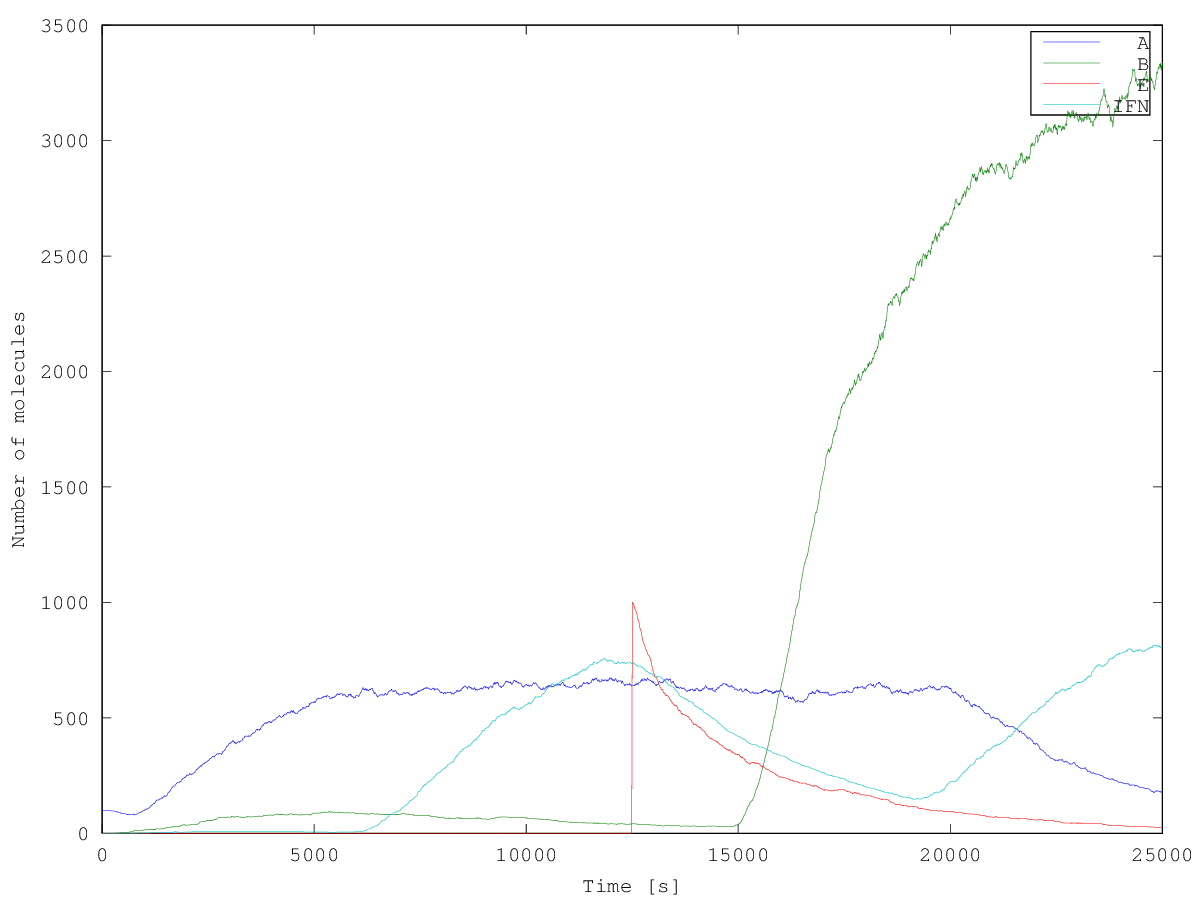
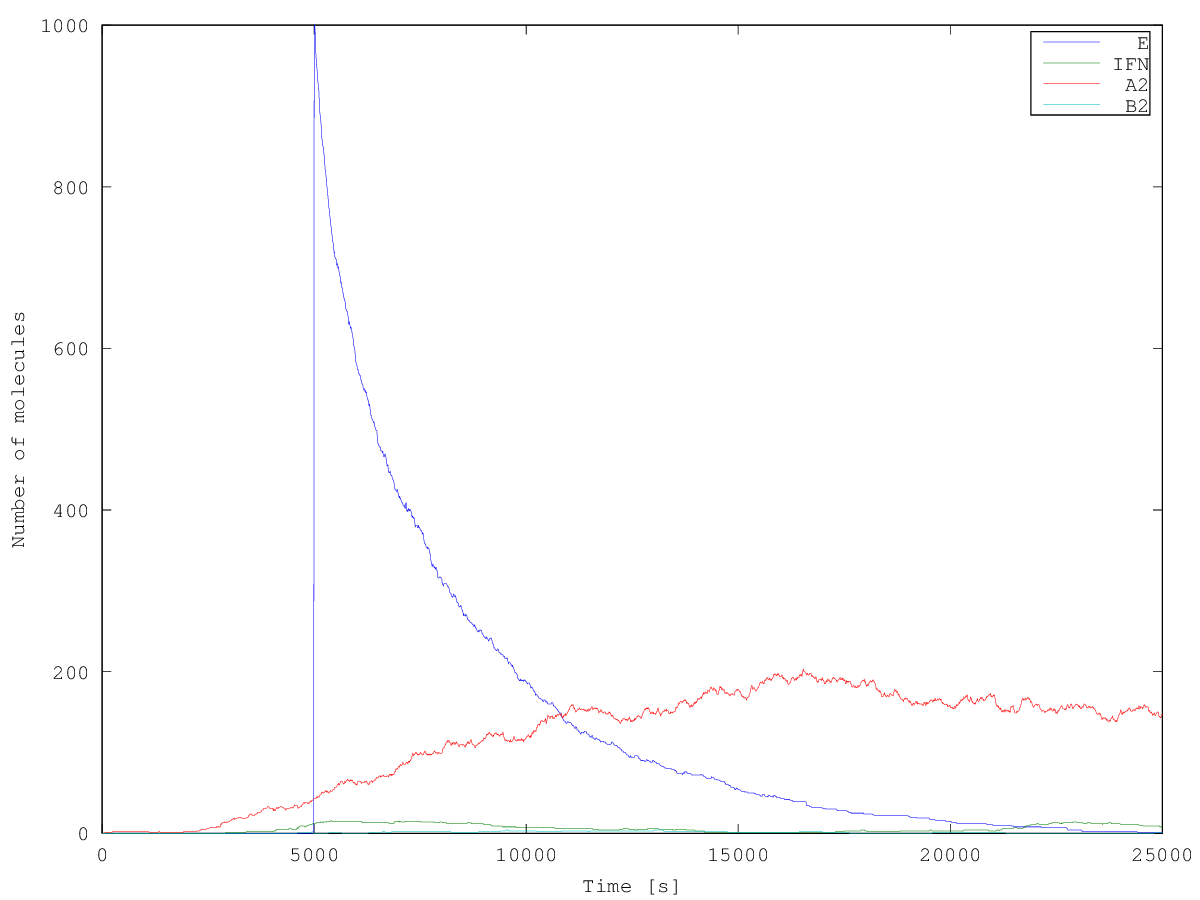
Popravki za skldanost z ostalimi slikami

diff --git a/2del/ebola_ssa.m b/2del/ebola_ssa.m
@@ -19,10 +19,10 @@ A_init = 100;
 
 t_end = 25000;
 t_step = 10;
-% IFN, A2, B2, E2
-%observ = 13:16;
+% E, IFN, A2, B2
+observ = 12:15;
 % A, B, E, IFN
-observ = 10:13;
+%observ = 10:13;
 plot_on = true;
 
 % average of how many runs?
@@ -262,15 +262,18 @@ t = 0:t_step:(s-1)*t_step; % sample points are predefined by the step_size
 X_total = zeros(runs,length(observ),s); % data storage for all observed species over all runs
 
 
+disp('Borders before and after E injection');
+first_part = t_end/5
+second_part = t_end-first_part-t_step
 
 for k=1:runs
     disp('Starting new run');
-    [X1] = ssa(constants,reactants,products,X_init,t_end/2,t_step);
+    [X1] = ssa(constants,reactants,products,X_init,first_part,t_step);
    
 
     X1(12,end)= X1(12,end) + 1000;
     disp('Injecting 1000 E');
-    [X2] = ssa(constants,reactants,products,X1(:,end),t_end/2-t_step,t_step);
+    [X2] = ssa(constants,reactants,products,X1(:,end),second_part,t_step);
     
     [X] = [X1 X2];
 
@@ -285,8 +288,8 @@ for k=1:runs
     figure(k), plot(t, X_total(k,:,:));
     xlabel('Time [s]');
     ylabel('Number of molecules');
-    %legend('IFN', 'A2','B2','E2');
-    legend('A','B','E','IFN');
+    legend('E', 'IFN', 'A2','B2');
+    %legend('A','B','E','IFN');
     saveas(figure(1),sprintf('run%d.png',k));
     box off;
     
@@ -305,8 +308,8 @@ if (plot_on==1)
     figure(runs+1), plot(t, X_means(:,:));
     xlabel('Time [s]');
     ylabel('Number of molecules');
-    %legend('IFN', 'A2','B2','E2');
-    legend('A','B','E','IFN');
+    legend('E', 'IFN', 'A2','B2');
+    %legend('A','B','E','IFN');
     saveas(figure(1), 'mean.png');
     box off;
     
